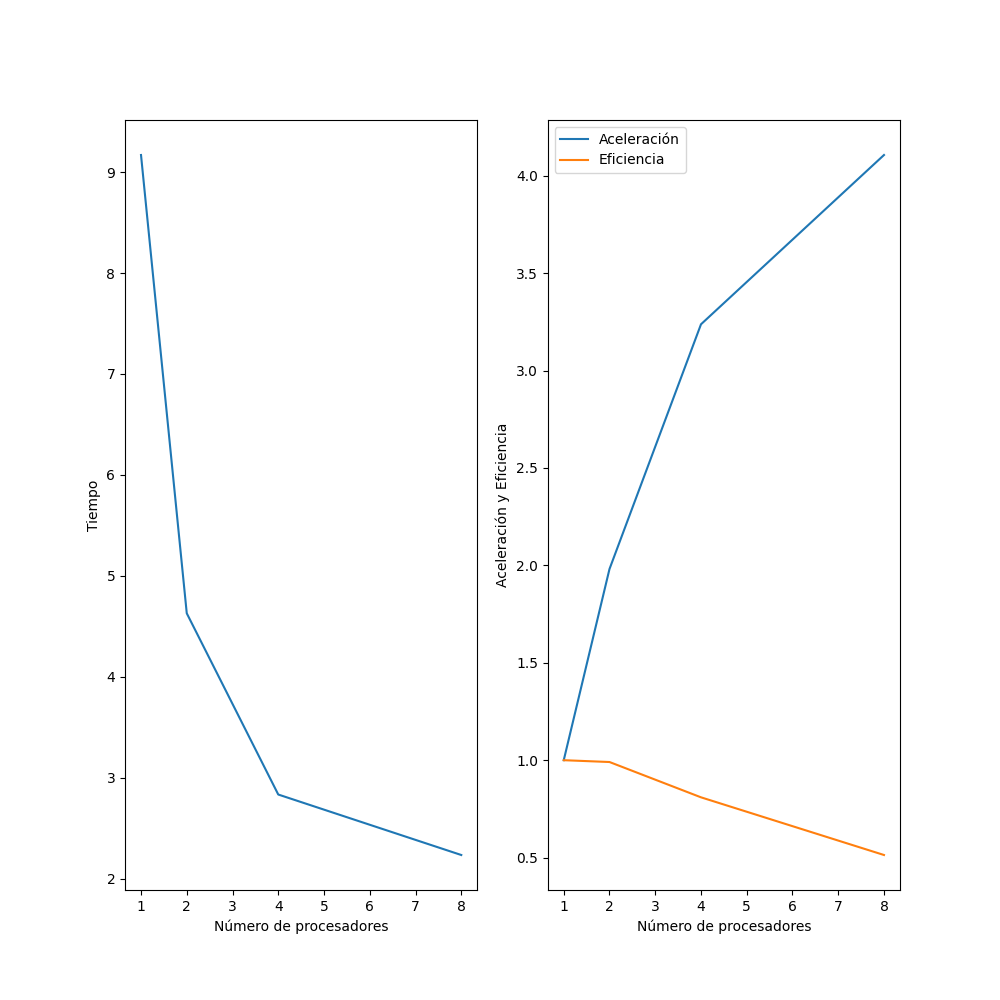
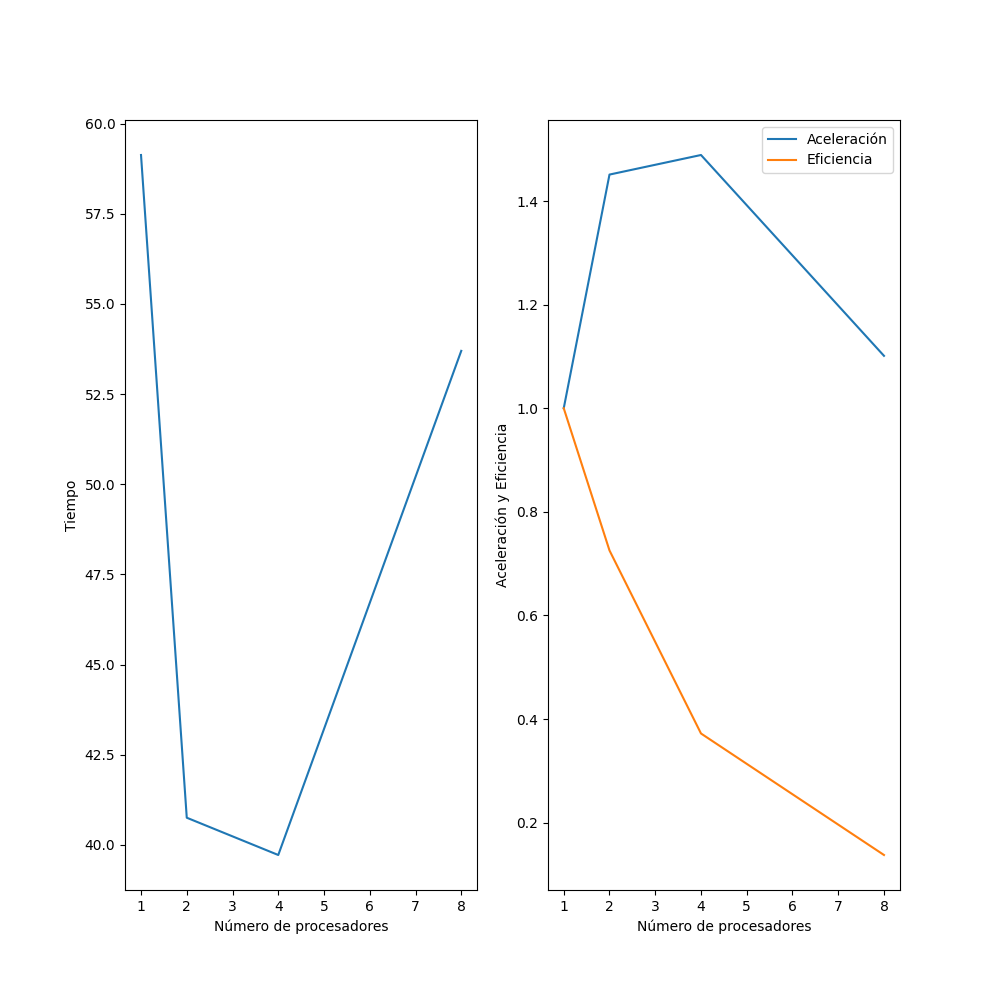
Corrections in sequential and multiprocessing

diff --git a/index.py b/index.py
@@ -4,6 +4,7 @@ import matplotlib.pyplot as plt
 import time
 from mpi4py import MPI
 from multiprocessing import Pool, cpu_count, shared_memory
+import multiprocessing as mp
 import cv2
 from tqdm import tqdm
 import os
@@ -41,7 +42,7 @@ def dotplot_sequential(sequence1, sequence2):
                 dotplot[i, j] = 0
     return dotplot
 
-def worker_multiprocessing(start_idx, end_idx, shm_name, shape, dtype, sequence1, sequence2):
+"""def worker_multiprocessing(start_idx, end_idx, shm_name, shape, dtype, sequence1, sequence2):
     existing_shm = shared_memory.SharedMemory(name=shm_name)
     dotplot = np.ndarray(shape, dtype=dtype, buffer=existing_shm.buf)
     
@@ -52,9 +53,21 @@ def worker_multiprocessing(start_idx, end_idx, shm_name, shape, dtype, sequence1
             else:
                 dotplot[i, j] = 0
     
-    existing_shm.close()
+    existing_shm.close()"""
+def worker_multiprocessing(args):
+    i, sequence1, sequence2 = args
+    dotplot = []
+    for j in range(len(sequence2)):
+        if sequence1[i] == sequence2[j]:
+            if i == j:
+                dotplot.append(1)
+            else:
+                dotplot.append(0.7)
+        else:
+            dotplot.append(0)
+    return dotplot
 
-def parallel_multiprocessing_dotplot(sequence1, sequence2, threads=cpu_count(), chunk_size=500):
+"""def parallel_multiprocessing_dotplot(sequence1, sequence2, threads=cpu_count(), chunk_size=500):
     shape = (len(sequence1), len(sequence2))
     dtype = np.float16
 
@@ -75,7 +88,12 @@ def parallel_multiprocessing_dotplot(sequence1, sequence2, threads=cpu_count(), 
     shm.close()
     shm.unlink()
 
-    return dotplot_copy
+    return dotplot_copy"""
+def parallel_multiprocessing_dotplot(sequence1, sequence2, threads=mp.cpu_count()):
+    with mp.Pool(processes=threads) as pool:
+        dotplot = pool.map(worker_multiprocessing, [
+                           (i, sequence1, sequence2) for i in range(len(sequence1))])
+    return dotplot
 
 def save_results_to_file(results, file_name="images/results.txt"):
     with open(file_name, "a") as file:
@@ -185,8 +203,11 @@ def apply_filter(matrix, output_path):
     # Aplica el filtro
     filtered_matrix = cv2.filter2D(matrix, -1, kernel_diagonales)
     
-    # Guarda la imagen filtrada
-    cv2.imwrite(output_path, filtered_matrix)
+    # Normaliza los valores de la matriz para asegurarte de que están en el rango adecuado para la visualización
+    filtered_matrix = cv2.normalize(filtered_matrix, None, 0, 255, cv2.NORM_MINMAX)
+    
+    # Guarda la imagen filtrada como uint8
+    cv2.imwrite(output_path, filtered_matrix.astype(np.uint8))
 
 def main():
     comm = MPI.COMM_WORLD
@@ -259,10 +280,10 @@ def main():
         dotplotSequential = dotplot_sequential(Secuencia1, Secuencia2)
         results_print.append(
             f"Tiempo de ejecución secuencial: {time.time() - start_secuencial}")
-        draw_dotplot(dotplotSequential[:10000, :10000],
+        draw_dotplot(dotplotSequential[:600, :600],
                      fig_name="images/images_sequential/dotplot/dotplot_secuencial.png")
         path_image = 'images/images_filter/dotplot_filter_sequential.png'
-        apply_filter(dotplotSequential[:10000, :10000], path_image)
+        apply_filter(dotplotSequential[:600, :600], path_image)
         save_results_to_file(results_print, file_name="results/sequential/results_sequential.txt")
 
     if args.multiprocessing and rank == 0:
@@ -289,11 +310,11 @@ def main():
 
         save_results_to_file(results_print, file_name="results/multiprocessing/results_multiprocessing.txt")
         draw_graphic(times_multiprocessing, accelerations, efficiencies, num_threads, "images/images_multiprocessing/metrics/graficasMultiprocessing.png")
-        draw_dotplot(dotplotMultiprocessing[:10000, :10000],
+        draw_dotplot(dotplotMultiprocessing[:600, :600],
                      fig_name='images/images_multiprocessing/dotplot/dotplot_multiprocessing.png')
         
         path_image = 'images/images_filter/dotplot_filter_multiprocessing.png'  
-        apply_filter(dotplotMultiprocessing[:10000, :10000], path_image)
+        apply_filter(dotplotMultiprocessing[:600, :600], path_image)
 
     if args.mpi:
         if rank == 0:
@@ -303,9 +324,9 @@ def main():
             elapsed_time = time.time() - start_time
             results_print_mpi = [f"Tiempo de ejecución mpi con {args.num_processes} hilos: {elapsed_time}"]
             save_results_to_file(results_print_mpi, file_name=args.results_file)
-            draw_dotplot(dotplot_mpi[:10000, :10000], fig_name=f'images/images_mpi/dotplot/dotplot_mpi_{args.num_processes}_processes.png')
+            draw_dotplot(dotplot_mpi[:600, :600], fig_name=f'images/images_mpi/dotplot/dotplot_mpi_{args.num_processes}_processes.png')
             path_image = 'images/images_filter/dotplot_filter_mpi.png'  
-            apply_filter(dotplotMultiprocessing[:10000, :10000], path_image)
+            apply_filter(dotplotMultiprocessing[:600, :600], path_image)
 
     if args.pycuda:
         start_time = time.time()
